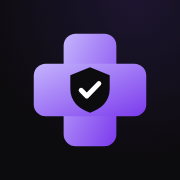
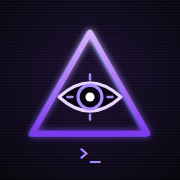
Accueil tableau de bord, heures en temps réel, pastilles spécimens, icône
- Accueil : cartes Aujourd'hui (dossiers, heures, cadence, % objectif,
  +1), Mois (total, prochain palier, jalons P1-P3, projection, moyenne,
  jours) et graphique des 7 derniers jours (objectif en pointillé,
  détail au toucher), raccourcis Cas / Formation / Sources.
- Calcul en temps réel : la journée démarre automatiquement au premier
  dossier (heure du téléphone, déjà synchronisée par iOS), les heures et
  la cadence avancent seules ; ⏹ termine la journée, ⏱ corrige l'heure
  de début ; h reste disponible pour les jours passés.
- Procédure : pastilles PASS / ID sur chaque pays (spécimen Commons ou
  image perso), filtre « Avec spécimen », compteur par zone, point sur
  les onglets de la fiche pays.
- Nouvelle icône originale (triangle, œil-scanner, lignes de balayage,
  invite >_), noir et violet ; logo d'en-tête assorti.

diff --git a/procedure.js b/procedure.js
@@ -33,7 +33,15 @@
   const urls = [];
   const freeUrls = () => urls.splice(0).forEach(u => URL.revokeObjectURL(u));
   const norm = s => s.toLocaleLowerCase('fr').normalize('NFD').replace(/[̀-ͯ]/g, '');
-  const countryRow = c => `<button class="item" data-country="${c.code}"><span class="item-ic mono">${c.code}</span><span class="item-txt"><strong>${esc(c.name)}</strong><small>${[tags(c), SPEC[c.code] ? 'spécimens' : ''].filter(Boolean).join(' · ') || 'Hors UE'}</small></span><span class="item-go">›</span></button>`;
+  // Pastilles : PASS / ID allumées quand un spécimen existe (Commons ou image ajoutée sur le téléphone).
+  let own = new Set();
+  const refreshOwn = async () => { try { own = new Set((await S.all('specimens')).map(r => r.id.split(':').slice(0, 2).join(':'))); } catch { own = new Set(); } };
+  const has = (code, type) => !!(SPEC[code] && SPEC[code][type] && SPEC[code][type].length) || own.has(`${code}:${type}`);
+  const hasAny = code => has(code, 'passport') || has(code, 'id') || has(code, 'residence');
+  const pills = c => `<span class="pills" aria-label="${has(c.code, 'passport') ? 'spécimen passeport' : 'pas de spécimen passeport'}, ${has(c.code, 'id') ? 'spécimen carte d’identité' : 'pas de spécimen carte d’identité'}"><span class="pill ${has(c.code, 'passport') ? 'on' : ''}">PASS</span><span class="pill ${has(c.code, 'id') ? 'on' : ''}">ID</span></span>`;
+  const countryRow = c => `<button class="item" data-country="${c.code}"><span class="item-ic mono">${c.code}</span><span class="item-txt"><strong>${esc(c.name)}</strong><small>${tags(c) || 'Hors UE'}</small></span>${pills(c)}<span class="item-go">›</span></button>`;
+  let onlySpec = false;
+  const filterBar = () => `<div class="legend"><button class="filter-chip ${onlySpec ? 'on' : ''}" id="onlySpec" aria-pressed="${onlySpec}">${onlySpec ? '✓ ' : ''}Avec spécimen</button><span>en violet = spécimen dispo</span></div>`;
   const bindCountries = (el, from) => el.querySelectorAll('[data-country]').forEach(b => b.addEventListener('click', () => renderCountry(b.dataset.country, from)));
 
   // Écran 1 : recherche + zones (tient sur un écran)
@@ -42,7 +50,7 @@
     App.header({ title: 'Procédure' });
     body.innerHTML = `<div class="pad stack fill">
       <label class="search"><span>⌕</span><input id="procSearch" type="search" placeholder="Rechercher un pays ou un code…" autocomplete="off" /></label>
-      <div class="zones" id="procZones">${order.map(k => `<button class="zone" data-zone="${k}"><span class="mono accent">${zones[k].icon}</span><strong>${zones[k].label}</strong><small>${zones[k].list.length} pays</small></button>`).join('')}</div>
+      <div class="zones" id="procZones">${order.map(k => `<button class="zone" data-zone="${k}"><span class="mono accent">${zones[k].icon}</span><strong>${zones[k].label}</strong><small>${zones[k].list.length} pays · <em>${zones[k].list.filter(c => hasAny(c.code)).length} avec spécimens</em></small></button>`).join('')}</div>
       <div class="list scroll" id="procResults" hidden></div>
     </div>`;
     const input = body.querySelector('#procSearch'), res = body.querySelector('#procResults'), zl = body.querySelector('#procZones');
@@ -50,7 +58,7 @@
       const q = norm(input.value.trim());
       zl.hidden = !!q; res.hidden = !q;
       if (!q) return;
-      const rows = allCountries.filter(c => norm(`${c.name} ${c.code}`).includes(q)).sort((a, b) => a.name.localeCompare(b.name, 'fr'));
+      const rows = allCountries.filter(c => norm(`${c.name} ${c.code}`).includes(q) && (!onlySpec || hasAny(c.code))).sort((a, b) => a.name.localeCompare(b.name, 'fr'));
       res.innerHTML = rows.length ? rows.map(countryRow).join('') : '<p class="empty">Aucun pays ne correspond.</p>';
       bindCountries(res, null);
     });
@@ -65,17 +73,19 @@
     App.header({ title: z.label, back: () => renderHome() });
     body.innerHTML = `<div class="pad stack fill">
       <label class="search"><span>⌕</span><input id="zoneSearch" type="search" placeholder="Filtrer ${z.list.length} pays…" autocomplete="off" /></label>
+      ${filterBar()}
       <div class="list scroll" id="zoneList"></div>
       ${key === 'schengen' ? '<p class="foot">29 États Schengen à la date de cette version : composition à revérifier.</p>' : ''}
     </div>`;
     const input = body.querySelector('#zoneSearch'), list = body.querySelector('#zoneList');
     const draw = () => {
       const q = norm(input.value.trim());
-      const rows = z.list.filter(c => norm(`${c.name} ${c.code}`).includes(q));
+      const rows = z.list.filter(c => norm(`${c.name} ${c.code}`).includes(q) && (!onlySpec || hasAny(c.code)));
       list.innerHTML = rows.length ? rows.map(countryRow).join('') : '<p class="empty">Aucun pays ne correspond.</p>';
       bindCountries(list, key);
     };
     input.addEventListener('input', draw); draw();
+    body.querySelector('#onlySpec').addEventListener('click', ev => { onlySpec = !onlySpec; ev.currentTarget.classList.toggle('on', onlySpec); ev.currentTarget.setAttribute('aria-pressed', onlySpec); ev.currentTarget.textContent = (onlySpec ? '✓ ' : '') + 'Avec spécimen'; draw(); });
   }
 
   // Écran 3 : fiche pays, un onglet par document. Seule la zone des pièces défile.
@@ -89,7 +99,7 @@
     const commons = (SPEC[c.code] && SPEC[c.code][d.type]) || [];
     body.innerHTML = `<div class="pad stack fill">
       <div class="row"><span class="chip mono">${c.code}</span><span class="muted small">${tags(c) || 'Hors UE'}</span></div>
-      <div class="seg" role="tablist">${docs.map(x => `<button role="tab" class="${x === d ? 'on' : ''}" aria-selected="${x === d}" data-doc="${x.type}">${short[x.type]}</button>`).join('')}</div>
+      <div class="seg" role="tablist">${docs.map(x => `<button role="tab" class="${x === d ? 'on' : ''}" aria-selected="${x === d}" data-doc="${x.type}">${short[x.type]}${x.type !== 'none' && has(c.code, x.type) ? ' <span class="dot"></span>' : ''}</button>`).join('')}</div>
       <div class="scroll specs">
         <p class="muted small">${esc(d.detail)}</p>
         ${commons.map(img => `<figure class="spec"><a href="${img.page}" target="_blank" rel="noopener"><img src="${img.thumb}" alt="Spécimen ${esc(d.name)} — ${esc(c.name)}" loading="lazy" /></a><figcaption><b>${esc(img.label || '')}</b> · Wikimedia Commons · ${esc(img.license)}${img.artist ? ' · ' + esc(img.artist) : ''}</figcaption></figure>`).join('')}
@@ -113,7 +123,7 @@
         const u = URL.createObjectURL(r.blob); urls.push(u);
         return `<figure class="spec"><a href="${u}" target="_blank" rel="noopener"><img src="${u}" alt="${esc(r.label || 'Mon spécimen')}" /></a><figcaption><b>${esc(r.label || 'Mon spécimen')}</b> · sur ce téléphone · <button type="button" class="link" data-del="${esc(r.id)}">Supprimer</button></figcaption></figure>`;
       }).join('');
-      box.querySelectorAll('[data-del]').forEach(b => b.addEventListener('click', async () => { if (confirm('Supprimer cette image ?')) { await S.del('specimens', b.dataset.del); drawOwn(); } }));
+      box.querySelectorAll('[data-del]').forEach(b => b.addEventListener('click', async () => { if (confirm('Supprimer cette image ?')) { await S.del('specimens', b.dataset.del); await refreshOwn(); drawOwn(); } }));
     };
     const add = body.querySelector('#ownAdd');
     if (add) add.addEventListener('change', async () => {
@@ -124,10 +134,10 @@
         const label = (prompt(`Nom de l'image (${f.name}) :`, suggestions.shift() || d.name) || '').trim() || d.name;
         await S.put('specimens', { id: `${key}:${S.uid()}`, label, blob: await S.compressImage(f), name: f.name, added: Date.now() });
       }
-      drawOwn();
+      await refreshOwn(); drawOwn();
     });
     drawOwn();
   }
 
-  App.on('procedure', opts => renderHome(opts.search));
+  App.on('procedure', async opts => { await refreshOwn(); renderHome(opts.search); });
 })();

diff --git a/calcul.js b/calcul.js
@@ -21,7 +21,10 @@
   }
   const entry = d => data.days[d] || { h: 0, n: 0 };
   function setDay(d, patch) {
-    const v = Object.assign({ h: 0, n: 0 }, data.days[d], patch);
+    const prev = data.days[d] || { h: 0, n: 0 };
+    const v = Object.assign({ h: 0, n: 0 }, prev, patch);
+    // Temps réel : le chrono démarre tout seul au premier dossier du jour (heure du téléphone).
+    if (d === today() && patch.n !== undefined && patch.n > (prev.n || 0) && !v.start && !v.h) v.start = nowHM();
     v.n = Math.max(0, Math.round(v.n)); v.h = Math.max(0, Math.min(24, v.h));
     if (v.start === undefined) delete v.start;
     if (!v.h && !v.n && !v.start) delete data.days[d]; else data.days[d] = v;
@@ -55,7 +58,14 @@
   // API utilisée par l'accueil.
   window.SkamCalc = {
     today() { syncLive(); const t = today(), e = entry(t), h = hoursOf(t); return { n: e.n, h: Math.round(h * 10) / 10, target: Math.round(h * data.rate), pace: h ? fmt1(e.n / h) : '—' }; },
-    add(k) { const t = today(); setDay(t, { n: entry(t).n + k }); }
+    add(k) { const t = today(); setDay(t, { n: entry(t).n + k }); },
+    rate: () => data.rate,
+    tiers: () => data.tiers.slice(),
+    month() { syncLive(); return monthStats(today().slice(0, 7)); },
+    // 7 derniers jours (du plus ancien au plus récent), heures effectives.
+    week() { syncLive(); return Array.from({ length: 7 }, (_, i) => { const d = shiftDay(today(), i - 6), e = entry(d), h = hoursOf(d); return { d, n: e.n, h, target: Math.round(h * data.rate) }; }); },
+    running: () => !!entry(today()).start,
+    start: () => entry(today()).start || null
   };
 
   let view = 'day', day = today(), month = today().slice(0, 7), buf = '', flash = '', clock = null;
@@ -75,7 +85,7 @@
   const KEYS = [
     ['C', 'clear', 'k-fn'], ['⌫', 'back', 'k-fn'], ['⏱', 'start', 'k-fn'], ['−', 'sub', 'k-op'],
     ['7', '7'], ['8', '8'], ['9', '9'], ['+', 'add', 'k-op'],
-    ['4', '4'], ['5', '5'], ['6', '6'], ['h', 'hours', 'k-op'],
+    ['4', '4'], ['5', '5'], ['6', '6'], ['HOURS'],
     ['1', '1'], ['2', '2'], ['3', '3'], ['=', 'set', 'k-op'],
     ['0', '0', 'k-wide'], [',', 'comma'], ['+1', 'plus1', 'k-eq']
   ];
@@ -98,11 +108,12 @@
         <div><small>Écart</small><strong class="mono ${diff >= 0 ? 'good' : 'warn'}">${diff >= 0 ? '+' : ''}${fmt(diff)}</strong></div>
       </div>
       <span class="meter"><span style="width:${target ? Math.min(100, e.n / target * 100) : 0}%"></span></span>
-      <div class="lcd-foot small muted">${e.start ? `Début ${e.start}${live ? ' · chrono en cours' : ''}` : 'Saisis un nombre puis + − = ou h · ⏱ démarre la journée'}</div>
+      <div class="lcd-foot small muted">${day !== today() ? 'Jour passé : saisis les heures puis h' : live ? `Début ${e.start} · temps réel (heure du téléphone)` : e.start === undefined && e.h ? 'Journée terminée · ⏱ pour reprendre' : 'Le chrono démarre au 1er dossier · ⏱ règle l’heure de début'}</div>
     </div>`;
   }
   function dayHtml() {
-    return `${displayHtml()}<div class="keypad">${KEYS.map(([label, k, cls]) => `<button class="key ${cls || ''}" data-key="${k}" aria-label="${{ clear: 'Effacer la saisie', back: 'Effacer le dernier chiffre', start: 'Début de journée', sub: 'Retirer du total', add: 'Ajouter au total', hours: 'Fixer les heures', set: 'Fixer le total', plus1: 'Plus un dossier', comma: 'Virgule' }[k] || label}">${label}</button>`).join('')}</div>`;
+    const keys = KEYS.map(x => x[0] !== 'HOURS' ? x : day === today() ? ['⏹', 'stop', 'k-op'] : ['h', 'hours', 'k-op']);
+    return `${displayHtml()}<div class="keypad">${keys.map(([label, k, cls]) => `<button class="key ${cls || ''}" data-key="${k}" aria-label="${{ clear: 'Effacer la saisie', back: 'Effacer le dernier chiffre', start: 'Début de journée', sub: 'Retirer du total', add: 'Ajouter au total', hours: 'Fixer les heures', stop: 'Terminer la journée', set: 'Fixer le total', plus1: 'Plus un dossier', comma: 'Virgule' }[k] || label}">${label}</button>`).join('')}</div>`;
   }
   function updateDisplay() {
     const lcd = body.querySelector('#lcd'); if (!lcd) return;
@@ -132,6 +143,9 @@
     } else if (k === 'hours') {
       if (!buf) { flash = 'Saisis les heures, ex. 7,5'; }
       else { const v = Math.min(24, num()); setDay(day, { h: v, start: undefined }); delete (data.days[day] || {}).start; save(); flash = `${fmt1(v)} h`; buf = ''; }
+    } else if (k === 'stop') {
+      if (e.start) { syncLive(); const d = data.days[day]; delete d.start; save(); flash = `Journée terminée à ${nowHM()}`; }
+      else flash = 'Pas de chrono en cours';
     } else if (k === 'start') {
       if (day !== today()) { flash = 'Le chrono ne marche que pour aujourd\'hui'; }
       else if (buf) {
@@ -143,7 +157,7 @@
         if (hh > 23 || mm > 59) flash = 'Heure invalide';
         else { const start = `${pad(hh)}:${pad(mm)}`; if (toMin(start) > toMin(nowHM())) flash = 'Heure dans le futur'; else { setDay(day, { start }); syncLive(); flash = `Début ${start}`; } }
         buf = '';
-      } else if (e.start) { syncLive(); const d = data.days[day]; delete d.start; save(); flash = 'Chrono arrêté'; }
+      } else if (e.start) { flash = `Début ${e.start} · tape 830 puis ⏱ pour corriger`; }
       else { setDay(day, { start: nowHM() }); flash = `Début ${nowHM()}`; }
     }
     updateDisplay();
@@ -231,5 +245,5 @@
     if (document.visibilityState !== 'visible') return;
     const t = today(); if (t !== lastToday) { if (day === lastToday) day = t; month = t.slice(0, 7); lastToday = t; if (App.current === 'calcul') render(); }
   });
-  App.on('calcul', () => { day = today(); month = day.slice(0, 7); buf = ''; flash = ''; syncLive(); render(); });
+  App.on('calcul', opts => { day = today(); month = day.slice(0, 7); buf = ''; flash = ''; view = opts.view === 'month' ? 'month' : 'day'; syncLive(); render(); });
 })();

diff --git a/app.js b/app.js
@@ -42,25 +42,70 @@ window.App = (() => {
   return { go, header, sheet, closeSheet, on: (name, fn) => { enter[name] = fn; }, get current() { return current; } };
 })();
 
-// ---------- Accueil ----------
+// ---------- Accueil : tableau de bord ----------
 (() => {
   const $ = s => document.querySelector(s);
+  const fmt = n => Math.round(n).toLocaleString('fr-FR');
+  const fmt1 = n => (Math.round(n * 10) / 10).toLocaleString('fr-FR');
+  const pad = n => String(n).padStart(2, '0');
+  let tick = null, selected = 6;
+
   function render() {
-    const c = window.SkamCalc && window.SkamCalc.today();
-    const d = new Date();
-    $('#homeDate').textContent = d.toLocaleDateString('fr-FR', { weekday: 'long', day: 'numeric', month: 'long' });
-    if (!c) return;
-    $('#homeCount').textContent = c.n.toLocaleString('fr-FR');
-    $('#homeTarget').textContent = c.target ? `/ ${c.target.toLocaleString('fr-FR')}` : '/ — h';
-    $('#homeRate').textContent = c.h ? `${c.h.toLocaleString('fr-FR')} h · ${c.pace}/h` : 'heures à saisir';
-    $('#homeBar').style.width = `${c.target ? Math.min(100, c.n / c.target * 100) : 0}%`;
+    const C = window.SkamCalc; if (!C) return;
+    const now = new Date();
+    $('#homeDate').textContent = now.toLocaleDateString('fr-FR', { weekday: 'long', day: 'numeric', month: 'long' });
+    $('#homeClock').textContent = `${pad(now.getHours())}:${pad(now.getMinutes())}`;
+
+    // Aujourd'hui
+    const t = C.today();
+    $('#homeCount').textContent = fmt(t.n);
+    $('#homeHours').textContent = t.h ? `${fmt1(t.h)} h` : '—';
+    $('#homePace').textContent = t.h ? t.pace : '—';
+    $('#homePct').textContent = t.target ? `${Math.round(t.n / t.target * 100)} %` : '—';
+    $('#homeBar').style.width = `${t.target ? Math.min(100, t.n / t.target * 100) : 0}%`;
+    $('#homeStatus').textContent = C.running() ? `⏱ depuis ${C.start()}` : t.n ? 'journée terminée' : 'pas commencé';
+
+    // Mois : total, prochain palier, projection
+    const m = C.month(), tiers = C.tiers(), max = Math.max(...tiers, m.total, 1);
+    const next = tiers.find(x => x > m.total);
+    $('#homeMonthLabel').textContent = now.toLocaleDateString('fr-FR', { month: 'long' }).toUpperCase();
+    $('#homeMonthTotal').textContent = fmt(m.total);
+    $('#homeMonthOf').textContent = next ? `/ ${fmt(next)}` : 'tous paliers atteints';
+    $('#homeNext').textContent = next ? (m.remaining ? `${fmt((next - m.total) / m.remaining)}/jour pour P${tiers.indexOf(next) + 1}` : `reste ${fmt(next - m.total)}`) : '✓ P3 atteint';
+    $('#homeTierFill').style.width = `${Math.min(100, m.total / max * 100)}%`;
+    const box = $('#homeTiers');
+    box.querySelectorAll('.tm-tick').forEach(x => x.remove());
+    tiers.forEach((x, i) => box.insertAdjacentHTML('beforeend', `<span class="tm-tick ${m.total >= x ? 'hit' : ''}" style="left:${x / max * 100}%"><i></i><b class="mono">P${i + 1}</b></span>`));
+    $('#homeProj').textContent = fmt(m.projection);
+    $('#homeAvg').textContent = m.worked ? fmt(m.perDay) : '—';
+    $('#homeDays').textContent = `${m.worked}/${m.planned}`;
+
+    // 7 derniers jours : barres + objectif du jour en pointillé
+    const w = C.week(), top = Math.max(1, ...w.map(x => Math.max(x.n, x.target)));
+    $('#homeWeekTotal').textContent = `${fmt(w.reduce((s, x) => s + x.n, 0))} dossiers`;
+    $('#homeWeek').innerHTML = w.map((x, i) => {
+      const lbl = new Date(x.d + 'T12:00').toLocaleDateString('fr-FR', { weekday: 'narrow' });
+      return `<button class="wk-col ${i === selected ? 'sel' : ''}" role="listitem" data-i="${i}" aria-label="${new Date(x.d + 'T12:00').toLocaleDateString('fr-FR', { weekday: 'long', day: 'numeric' })} : ${x.n} dossiers${x.target ? `, objectif ${x.target}` : ''}">
+        <span class="wk-area">${x.target ? `<span class="wk-target" style="bottom:${x.target / top * 100}%"></span>` : ''}<span class="wk-bar" style="height:${x.n ? Math.max(3, x.n / top * 100) : 0}%"></span></span>
+        <span class="wk-lbl mono">${i === 6 ? 'auj' : lbl}</span></button>`;
+    }).join('');
+    const showDetail = i => {
+      const x = w[i], d = new Date(x.d + 'T12:00').toLocaleDateString('fr-FR', { weekday: 'long', day: 'numeric' });
+      $('#homeWeekDetail').innerHTML = `<b>${d}</b> · ${fmt(x.n)} dossiers${x.h ? ` · ${fmt1(x.h)} h · ${fmt1(x.n / x.h)}/h` : ''}${x.target ? ` · objectif ${fmt(x.target)}` : ''}`;
+    };
+    $('#homeWeek').querySelectorAll('[data-i]').forEach(b => b.addEventListener('click', () => { selected = Number(b.dataset.i); $('#homeWeek').querySelectorAll('.wk-col').forEach(c => c.classList.toggle('sel', c === b)); showDetail(selected); }));
+    if (selected !== 6 || t.n) showDetail(selected);
   }
-  const add = n => { if (window.SkamCalc) { window.SkamCalc.add(n); render(); } };
-  $('#homePlus').addEventListener('click', () => add(1));
-  $('#homePlus10').addEventListener('click', () => add(10));
-  $('#homeMinus').addEventListener('click', () => add(-1));
-  $('#homeToday').addEventListener('click', () => App.go('calcul'));
-  App.on('home', render);
+
+  $('#homePlus').addEventListener('click', ev => { ev.stopPropagation(); window.SkamCalc && window.SkamCalc.add(1); render(); });
+  const open = (el, fn) => { el.addEventListener('click', fn); el.addEventListener('keydown', e => { if (e.key === 'Enter' || e.key === ' ') { e.preventDefault(); fn(); } }); };
+  open($('#homeToday'), () => App.go('calcul'));
+  open($('#homeMonth'), () => App.go('calcul', { view: 'month' }));
+  App.on('home', () => {
+    selected = 6; render();
+    clearInterval(tick);
+    tick = setInterval(() => { if (App.current !== 'home' || document.hidden) return; render(); }, 20000);
+  });
   document.addEventListener('visibilitychange', () => { if (document.visibilityState === 'visible' && App.current === 'home') render(); });
 })();
 

diff --git a/index.html b/index.html
@@ -24,7 +24,7 @@
   <div class="app">
     <header class="bar">
       <button class="bar-btn" id="barBack" aria-label="Retour" hidden>‹</button>
-      <span class="bar-logo" id="barLogo" aria-hidden="true"><svg viewBox="0 0 24 24"><path d="M12 2.8 20 6v5.5c0 5-3.4 8.2-8 9.7-4.6-1.5-8-4.7-8-9.7V6l8-3.2Z"/><path d="m8.4 12.1 2.3 2.3 4.9-5"/></svg></span>
+      <span class="bar-logo" id="barLogo" aria-hidden="true"><svg viewBox="0 0 24 24"><path d="M12 3.2 21 19H3Z"/><path d="M7.6 14.2q4.4-4 8.8 0-4.4 4-8.8 0Z"/><circle cx="12" cy="14.2" r="1.3" fill="currentColor" stroke="none"/></svg></span>
       <h1 class="bar-title" id="barTitle">S'kam</h1>
       <button class="bar-btn bar-action" id="barAction" hidden></button>
     </header>
@@ -32,21 +32,34 @@
     <main class="screens">
       <!-- ACCUEIL -->
       <section class="screen" data-screen="home">
-        <div class="pad stack">
-          <div class="hello"><span class="mono muted" id="homeDate"></span><h2>Bonjour<span class="accent">.</span></h2></div>
-          <button class="today" id="homeToday" aria-label="Ouvrir le calcul du jour">
-            <span class="today-top"><span class="label">AUJOURD'HUI</span><span class="mono muted" id="homeRate"></span></span>
-            <span class="today-num"><strong class="mono" id="homeCount">0</strong><span class="muted mono" id="homeTarget">/ 0</span></span>
+        <div class="pad stack dash">
+          <div class="hello row"><div><span class="mono muted" id="homeDate"></span><h2>Bonjour<span class="accent">.</span></h2></div><span class="clock mono" id="homeClock"></span></div>
+
+          <div class="card dcard" id="homeToday" role="button" tabindex="0" aria-label="Ouvrir la calculette">
+            <div class="row"><span class="label">AUJOURD'HUI</span><span class="small muted" id="homeStatus"></span></div>
+            <div class="row"><div class="hero"><strong class="mono" id="homeCount">0</strong><span class="muted">dossiers</span></div><button class="btn btn-primary plus" id="homePlus" aria-label="Ajouter un dossier">+1</button></div>
+            <div class="kpis"><div><small>Heures</small><strong class="mono" id="homeHours">—</strong></div><div><small>Cadence/h</small><strong class="mono" id="homePace">—</strong></div><div><small>Objectif</small><strong class="mono" id="homePct">—</strong></div></div>
             <span class="meter"><span id="homeBar"></span></span>
-          </button>
-          <div class="today-actions"><button class="btn" id="homeMinus">−1</button><button class="btn btn-primary" id="homePlus">+1 dossier</button><button class="btn" id="homePlus10">+10</button></div>
-          <div class="tiles">
-            <button class="tile" data-open="reference"><span class="tile-ic">✎</span><strong>Cas complexes</strong><small>Tes cas anonymisés</small></button>
-            <button class="tile" data-open="training"><span class="tile-ic">◎</span><strong>Formation</strong><small>Cas fictifs</small></button>
-            <button class="tile" data-open="sources"><span class="tile-ic">⌘</span><strong>Sources</strong><small>PRADO, OACI…</small></button>
-            <button class="tile" data-open="search"><span class="tile-ic">⌕</span><strong>Chercher un pays</strong><small>Spécimens</small></button>
           </div>
-          <p class="foot">Outil personnel. Ne remplace pas les procédures de ton établissement.</p>
+
+          <div class="card dcard" id="homeMonth" role="button" tabindex="0" aria-label="Ouvrir la vue du mois">
+            <div class="row"><span class="label" id="homeMonthLabel">MOIS</span><span class="small muted" id="homeNext"></span></div>
+            <div class="hero"><strong class="mono" id="homeMonthTotal">0</strong><span class="muted" id="homeMonthOf"></span></div>
+            <div class="tiermeter" id="homeTiers"><span class="tm-fill" id="homeTierFill"></span></div>
+            <div class="kpis"><div><small>Projection</small><strong class="mono" id="homeProj">—</strong></div><div><small>Moy./jour</small><strong class="mono" id="homeAvg">—</strong></div><div><small>Jours</small><strong class="mono" id="homeDays">—</strong></div></div>
+          </div>
+
+          <div class="card dcard week">
+            <div class="row"><span class="label">7 DERNIERS JOURS</span><span class="small muted" id="homeWeekTotal"></span></div>
+            <div class="wk-bars" id="homeWeek" role="list" aria-label="Dossiers par jour sur 7 jours"></div>
+            <div class="small muted wk-detail" id="homeWeekDetail" aria-live="polite">Touche une barre · <span class="dash-key"></span> objectif du jour</div>
+          </div>
+
+          <div class="shortcuts">
+            <button class="btn" data-open="reference">✎ Cas</button>
+            <button class="btn" data-open="training">◎ Formation</button>
+            <button class="btn" data-open="sources">⌘ Sources</button>
+          </div>
         </div>
       </section>
 

diff --git a/styles.css b/styles.css
@@ -250,3 +250,64 @@ input[type=number]::-webkit-inner-spin-button,input[type=number]::-webkit-outer-
   .keypad{gap:6px}
   .key{font-size:19px;border-radius:12px}
 }
+
+/* ---------- Accueil : tableau de bord ---------- */
+.dash{gap:10px}
+.hello{align-items:flex-end}
+.hello h2{font-size:26px}
+.clock{font-size:22px;font-weight:800;color:var(--accent);letter-spacing:-.5px}
+.dcard{display:flex;flex-direction:column;gap:7px;padding:12px 14px;cursor:pointer}
+.dcard:active{background:var(--surface2)}
+#homeToday{border-color:#3b2d63;background:linear-gradient(150deg,#211938,#141218 70%)}
+.hero{display:flex;align-items:baseline;gap:8px;min-width:0}
+.hero strong{font-size:38px;line-height:1;letter-spacing:-1.5px}
+.hero span{font-size:13px}
+.plus{min-width:64px;font:800 18px var(--mono)}
+.kpis{display:grid;grid-template-columns:repeat(3,1fr);gap:8px}
+.kpis small{display:block;font-size:11px;color:var(--muted)}
+.kpis strong{display:block;font-size:16px;white-space:nowrap}
+.tiermeter{position:relative;height:6px;border-radius:6px;background:var(--surface2);margin:4px 0 14px}
+.tm-fill{position:absolute;left:0;top:0;bottom:0;border-radius:6px;background:linear-gradient(90deg,var(--accent-strong),var(--accent))}
+.tm-tick{position:absolute;top:-3px;transform:translateX(-50%)}
+.tm-tick i{display:block;width:2px;height:12px;margin:0 auto;background:var(--muted);border-radius:1px}
+.tm-tick b{display:block;font-size:9px;color:var(--muted);text-align:center;margin-top:1px}
+.tm-tick:last-child{transform:translateX(-100%)}
+.tm-tick:last-child b{text-align:right}
+.tm-tick.hit i{background:var(--good)}
+.tm-tick.hit b{color:var(--good)}
+.week{cursor:default}
+.week:active{background:var(--surface)}
+.wk-bars{display:grid;grid-template-columns:repeat(7,1fr);gap:2px;height:96px}
+.wk-col{display:flex;flex-direction:column;align-items:stretch;gap:4px;border:0;background:none;padding:0 3px;min-width:0;border-radius:8px}
+.wk-area{position:relative;flex:1;display:flex;align-items:flex-end;justify-content:center}
+.wk-bar{display:block;width:70%;max-width:26px;background:var(--accent-strong);border-radius:4px 4px 0 0;opacity:.75}
+.wk-col.sel .wk-bar{background:var(--accent);opacity:1}
+.wk-target{position:absolute;left:8%;right:8%;border-top:2px dashed var(--muted);opacity:.8}
+.wk-lbl{font-size:10px;color:var(--muted);text-align:center;text-transform:uppercase}
+.wk-col.sel .wk-lbl{color:var(--accent);font-weight:800}
+.wk-detail{min-height:18px;font-size:12px;white-space:nowrap;overflow:hidden;text-overflow:ellipsis}
+.wk-detail b{color:var(--text);text-transform:capitalize}
+.dash-key{display:inline-block;width:14px;border-top:2px dashed var(--muted);vertical-align:middle}
+.shortcuts{display:grid;grid-template-columns:repeat(3,1fr);gap:8px}
+.shortcuts .btn{padding:0 6px;font-size:13px}
+@media(max-height:700px){
+  .dash{gap:7px}
+  .hello h2{font-size:20px}
+  .clock{font-size:18px}
+  .dcard{padding:9px 12px;gap:5px}
+  .hero strong{font-size:30px}
+  .kpis strong{font-size:14px}
+  .wk-bars{height:70px}
+  .plus{min-height:38px}
+}
+
+/* ---------- Pastilles spécimens ---------- */
+.pills{display:inline-flex;gap:4px;flex:0 0 auto}
+.pill{font:800 9px var(--mono);letter-spacing:.5px;padding:3px 5px;border-radius:6px;border:1px solid var(--line);color:#5f596b}
+.pill.on{background:var(--accent-bg);border-color:#4c3a80;color:var(--accent)}
+.legend{display:flex;align-items:center;gap:6px;flex-wrap:wrap;font-size:11px;color:var(--muted)}
+.filter-chip{border:1px solid var(--line);background:var(--surface);color:var(--muted);border-radius:999px;padding:5px 10px;font:600 12px var(--sans);min-height:32px}
+.filter-chip.on{background:var(--accent-bg);border-color:#4c3a80;color:var(--accent)}
+.zone em{font-style:normal;font-size:11px;color:var(--accent)}
+.seg .dot{display:inline-block;width:6px;height:6px;border-radius:50%;background:var(--accent);vertical-align:middle;margin-left:3px}
+.bar-logo{color:var(--accent)}

diff --git a/sw.js b/sw.js
@@ -1,6 +1,6 @@
 // S'kam : réseau d'abord pour les fichiers de l'app (les mises à jour arrivent tout de suite),
 // cache en secours hors ligne. Ressources externes (polices, spécimens) : cache d'abord.
-const CACHE='skam-v10';
+const CACHE='skam-v11';
 const FILES=['./','./index.html','./styles.css','./app.js','./store.js','./specimens.js','./procedure.js','./calcul.js','./reference.js','./manifest.webmanifest','./icons/icon.svg','./icons/icon-192.png','./icons/icon-512.png','./icons/apple-touch-icon.png'];
 self.addEventListener('install',event=>{self.skipWaiting();event.waitUntil(caches.open(CACHE).then(cache=>cache.addAll(FILES.map(f=>new Request(f,{cache:'reload'})))));});
 self.addEventListener('activate',event=>event.waitUntil(caches.keys().then(keys=>Promise.all(keys.filter(k=>k!==CACHE).map(k=>caches.delete(k)))).then(()=>self.clients.claim())));

diff --git a/README.md b/README.md
@@ -3,12 +3,12 @@
 Application web mobile (PWA) d'aide à la vérification documentaire : HTML, CSS et JavaScript, sans dépendance ni serveur. Publiée sur GitHub Pages : https://www7y44w2c-arch.github.io/Q-Sign/
 
 ## Onglets
-- **Accueil** : compteur de dossiers du jour (+1 / +10 / −1) et accès rapide aux autres rubriques.
+- **Accueil** : tableau de bord — aujourd'hui (dossiers, heures en temps réel, cadence, % d'objectif, +1), mois (total, paliers, projection, moyenne, jours), graphique des 7 derniers jours, raccourcis.
 
 Interface pensée comme une application : chaque écran tient sur la hauteur du téléphone, avec un bouton retour dans l'en-tête ; seules les listes et les fiches de spécimens défilent.
-- **Procédure** : zones (Schengen, Europe, Afrique, Amériques, Asie & Moyen-Orient, Océanie), puis pays. Par pays : passeport (2e et 3e de couverture), CNI / eCNI, titre de séjour pour la France. Spécimens à licence libre de Wikimedia Commons (auteur et licence affichés), lien direct vers PRADO, ajout de ses propres images.
+- **Procédure** : zones (Schengen, Europe, Afrique, Amériques, Asie & Moyen-Orient, Océanie), puis pays. Pastilles PASS / ID sur chaque pays quand un spécimen est disponible, filtre « Avec spécimen ». Par pays : passeport (2e et 3e de couverture), CNI / eCNI, titre de séjour pour la France. Spécimens à licence libre de Wikimedia Commons (auteur et licence affichés), lien direct vers PRADO, ajout de ses propres images.
 - **Contrôles** : méthode de contrôle en 5 étapes.
-- **Calcul** : calculette (pavé numérique : `=` fixe le total, `+` / `−` ajoutent ou retirent, `h` fixe les heures, `⏱` démarre la journée pour un calcul des heures et de la cadence en direct), choix du jour, objectif à 80 dossiers/heure ; vue Mois avec projection et paliers (9 000 / 12 000 / 14 000), tous réglables.
+- **Calcul** : calculette (pavé numérique : `=` fixe le total, `+` / `−` ajoutent ou retirent, `h` fixe les heures, les heures se calculent en temps réel à partir du premier dossier du jour (heure du téléphone), `⏱` corrige l'heure de début, `⏹` termine la journée), choix du jour, objectif à 80 dossiers/heure ; vue Mois avec projection et paliers (9 000 / 12 000 / 14 000), tous réglables.
 - Depuis l'accueil : **Cas complexes** (fiches anonymisées avec pièces jointes), **Entraînement** (cas fictifs), **Sources officielles**.
 
 ## Données
